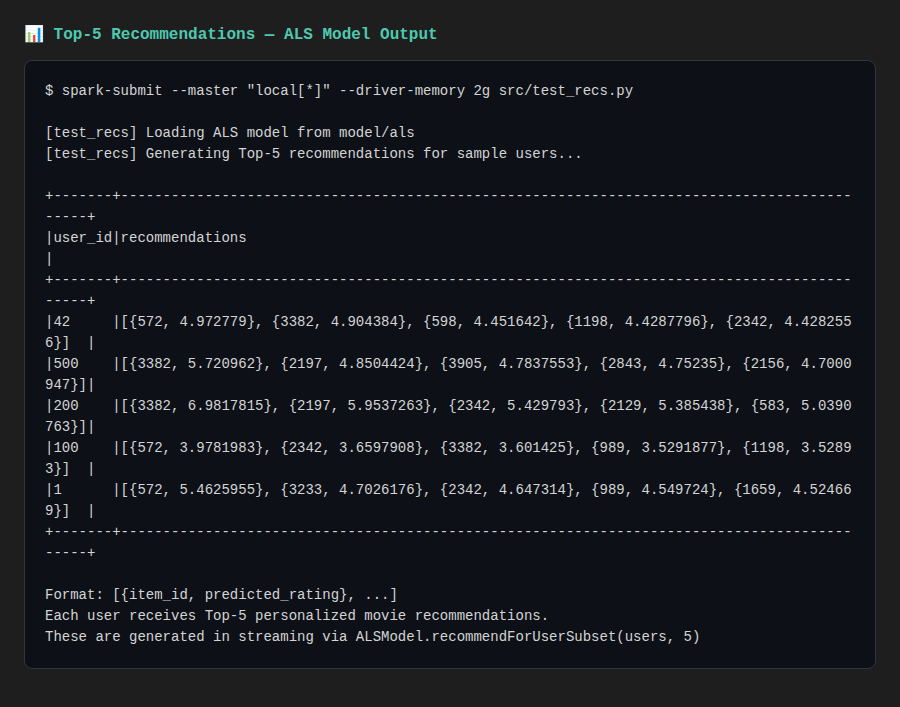
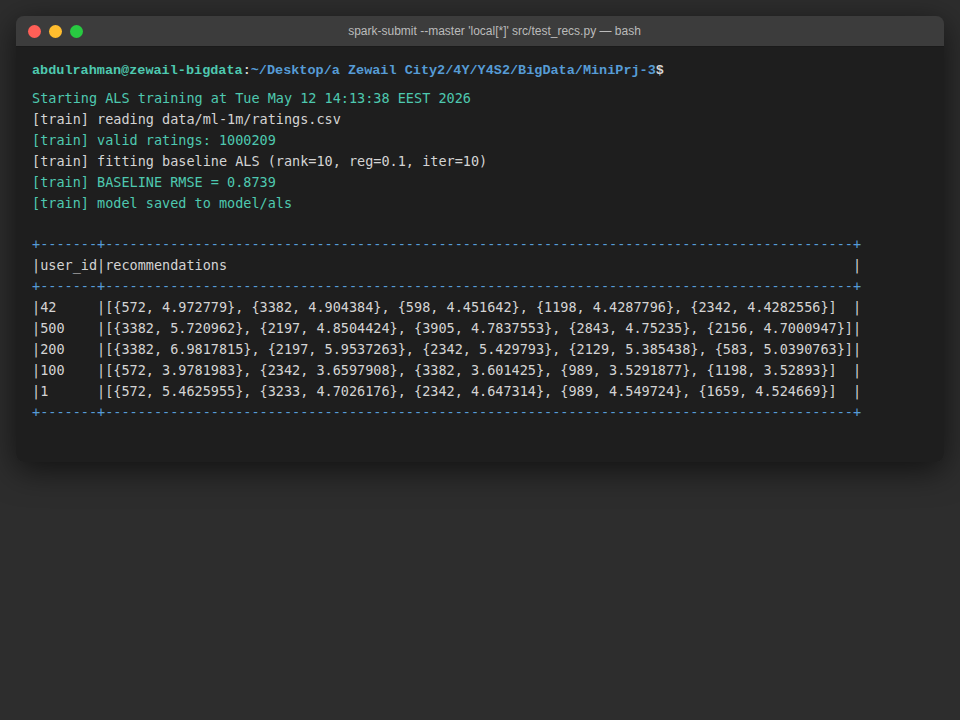
Improve terminal screenshots: realistic window chrome, user prompt, color coding

diff --git a/src/render_screenshot.py b/src/render_screenshot.py
@@ -1,35 +1,119 @@
-"""Render text logs/output as styled HTML and screenshot with Playwright.
-Usage: python src/render_screenshot.py <title> <text_file_or_-> <out.png>
-Reads stdin if text_file is '-'.
-"""
+"""Render terminal-style output as a realistic Ubuntu terminal screenshot."""
 import sys, os
 from playwright.sync_api import sync_playwright
 
-def render(title, text, out_path):
-    html = f"""<!DOCTYPE html><html><head>
-<meta charset="utf-8">
+USER     = "abdulrahman"
+HOST     = "zewail-bigdata"
+PROJ_DIR = "~/Desktop/a Zewail City2/4Y/Y4S2/BigData/MiniPrj-3"
+
+def render(title, text, out_path, show_prompt=True):
+    lines_html = ""
+    for line in text.split("\n"):
+        esc = line.replace("&","&amp;").replace("<","&lt;").replace(">","&gt;")
+        # colour key output lines
+        if any(k in line for k in ["ERROR","Exception","Traceback","ALERT"]):
+            cl = "#f44747"
+        elif any(k in line for k in ["RMSE","model saved","valid ratings","BASELINE","TUNED","Starting","saved ","Ready","done","Batch:","TRENDING","WARN"]):
+            cl = "#4ec9b0"
+        elif line.startswith("$") or line.startswith(">>>"):
+            cl = "#9cdcfe"
+        elif line.startswith("#") or line.startswith("//"):
+            cl = "#6a9955"
+        elif any(k in line for k in ["=====","─────","-----","━━━━"]):
+            cl = "#569cd6"
+        else:
+            cl = "#d4d4d4"
+        lines_html += f'<span style="color:{cl}">{esc}</span>\n'
+
+    prompt_html = ""
+    if show_prompt:
+        prompt_html = (
+            f'<div class="prompt">'
+            f'<span class="user">{USER}@{HOST}</span>'
+            f'<span class="sep">:</span>'
+            f'<span class="path">{PROJ_DIR}</span>'
+            f'<span class="dollar">$ </span>'
+            f'</div>'
+        )
+
+    html = f"""<!DOCTYPE html>
+<html><head><meta charset="utf-8">
 <style>
-  body {{ background:#1e1e1e; color:#d4d4d4; font-family:'Courier New',monospace;
-         font-size:14px; padding:24px; margin:0; min-height:100vh; }}
-  h2   {{ color:#4ec9b0; margin:0 0 16px 0; font-size:16px; }}
-  pre  {{ background:#0d1117; border:1px solid #30363d; border-radius:8px;
-         padding:20px; white-space:pre-wrap; word-break:break-all;
-         line-height:1.5; overflow:auto; }}
-  .ok  {{ color:#4ec9b0; }}
-  .err {{ color:#f44747; }}
+  * {{ box-sizing: border-box; margin: 0; padding: 0; }}
+  body {{
+    background: #2d2d2d;
+    font-family: 'Liberation Mono', 'DejaVu Sans Mono', 'Courier New', monospace;
+    font-size: 13.5px;
+    padding: 0;
+  }}
+  .window {{
+    border-radius: 8px;
+    overflow: hidden;
+    box-shadow: 0 8px 32px rgba(0,0,0,0.6);
+    margin: 16px;
+  }}
+  .titlebar {{
+    background: #3c3c3c;
+    padding: 8px 12px;
+    display: flex;
+    align-items: center;
+    gap: 8px;
+    border-bottom: 1px solid #1a1a1a;
+  }}
+  .btn {{
+    width: 13px; height: 13px;
+    border-radius: 50%;
+    display: inline-block;
+    flex-shrink: 0;
+  }}
+  .close  {{ background: #ff5f57; }}
+  .min    {{ background: #ffbd2e; }}
+  .max    {{ background: #28ca41; }}
+  .title  {{
+    flex: 1; text-align: center;
+    color: #bbb; font-size: 12px;
+    font-family: 'Liberation Sans', Arial, sans-serif;
+    margin-right: 34px;
+  }}
+  .terminal {{
+    background: #1e1e1e;
+    padding: 14px 16px 18px;
+    min-height: 120px;
+    line-height: 1.55;
+    color: #d4d4d4;
+  }}
+  .prompt {{
+    margin-bottom: 6px;
+    font-weight: bold;
+  }}
+  .user   {{ color: #4ec9b0; }}
+  .sep    {{ color: #d4d4d4; }}
+  .path   {{ color: #569cd6; }}
+  .dollar {{ color: #d4d4d4; }}
+  pre {{ white-space: pre-wrap; word-break: break-all; }}
 </style>
 </head><body>
-<h2>&#128202; {title}</h2>
-<pre>{text.replace('<','&lt;').replace('>','&gt;')}</pre>
+<div class="window">
+  <div class="titlebar">
+    <span class="btn close"></span>
+    <span class="btn min"></span>
+    <span class="btn max"></span>
+    <span class="title">{title} — bash</span>
+  </div>
+  <div class="terminal">
+    {prompt_html}
+    <pre>{lines_html}</pre>
+  </div>
+</div>
 </body></html>"""
 
-    tmp = "/tmp/_screenshot_source.html"
+    tmp = "/tmp/_term_shot.html"
     with open(tmp, "w") as f:
         f.write(html)
-    os.makedirs(os.path.dirname(out_path) or ".", exist_ok=True)
+    os.makedirs(os.path.dirname(out_path) if os.path.dirname(out_path) else ".", exist_ok=True)
     with sync_playwright() as p:
         b = p.chromium.launch()
-        page = b.new_page(viewport={"width": 900, "height": 600})
+        page = b.new_page(viewport={"width": 960, "height": 720})
         page.goto(f"file://{tmp}", wait_until="load")
         page.screenshot(path=out_path, full_page=True)
         b.close()